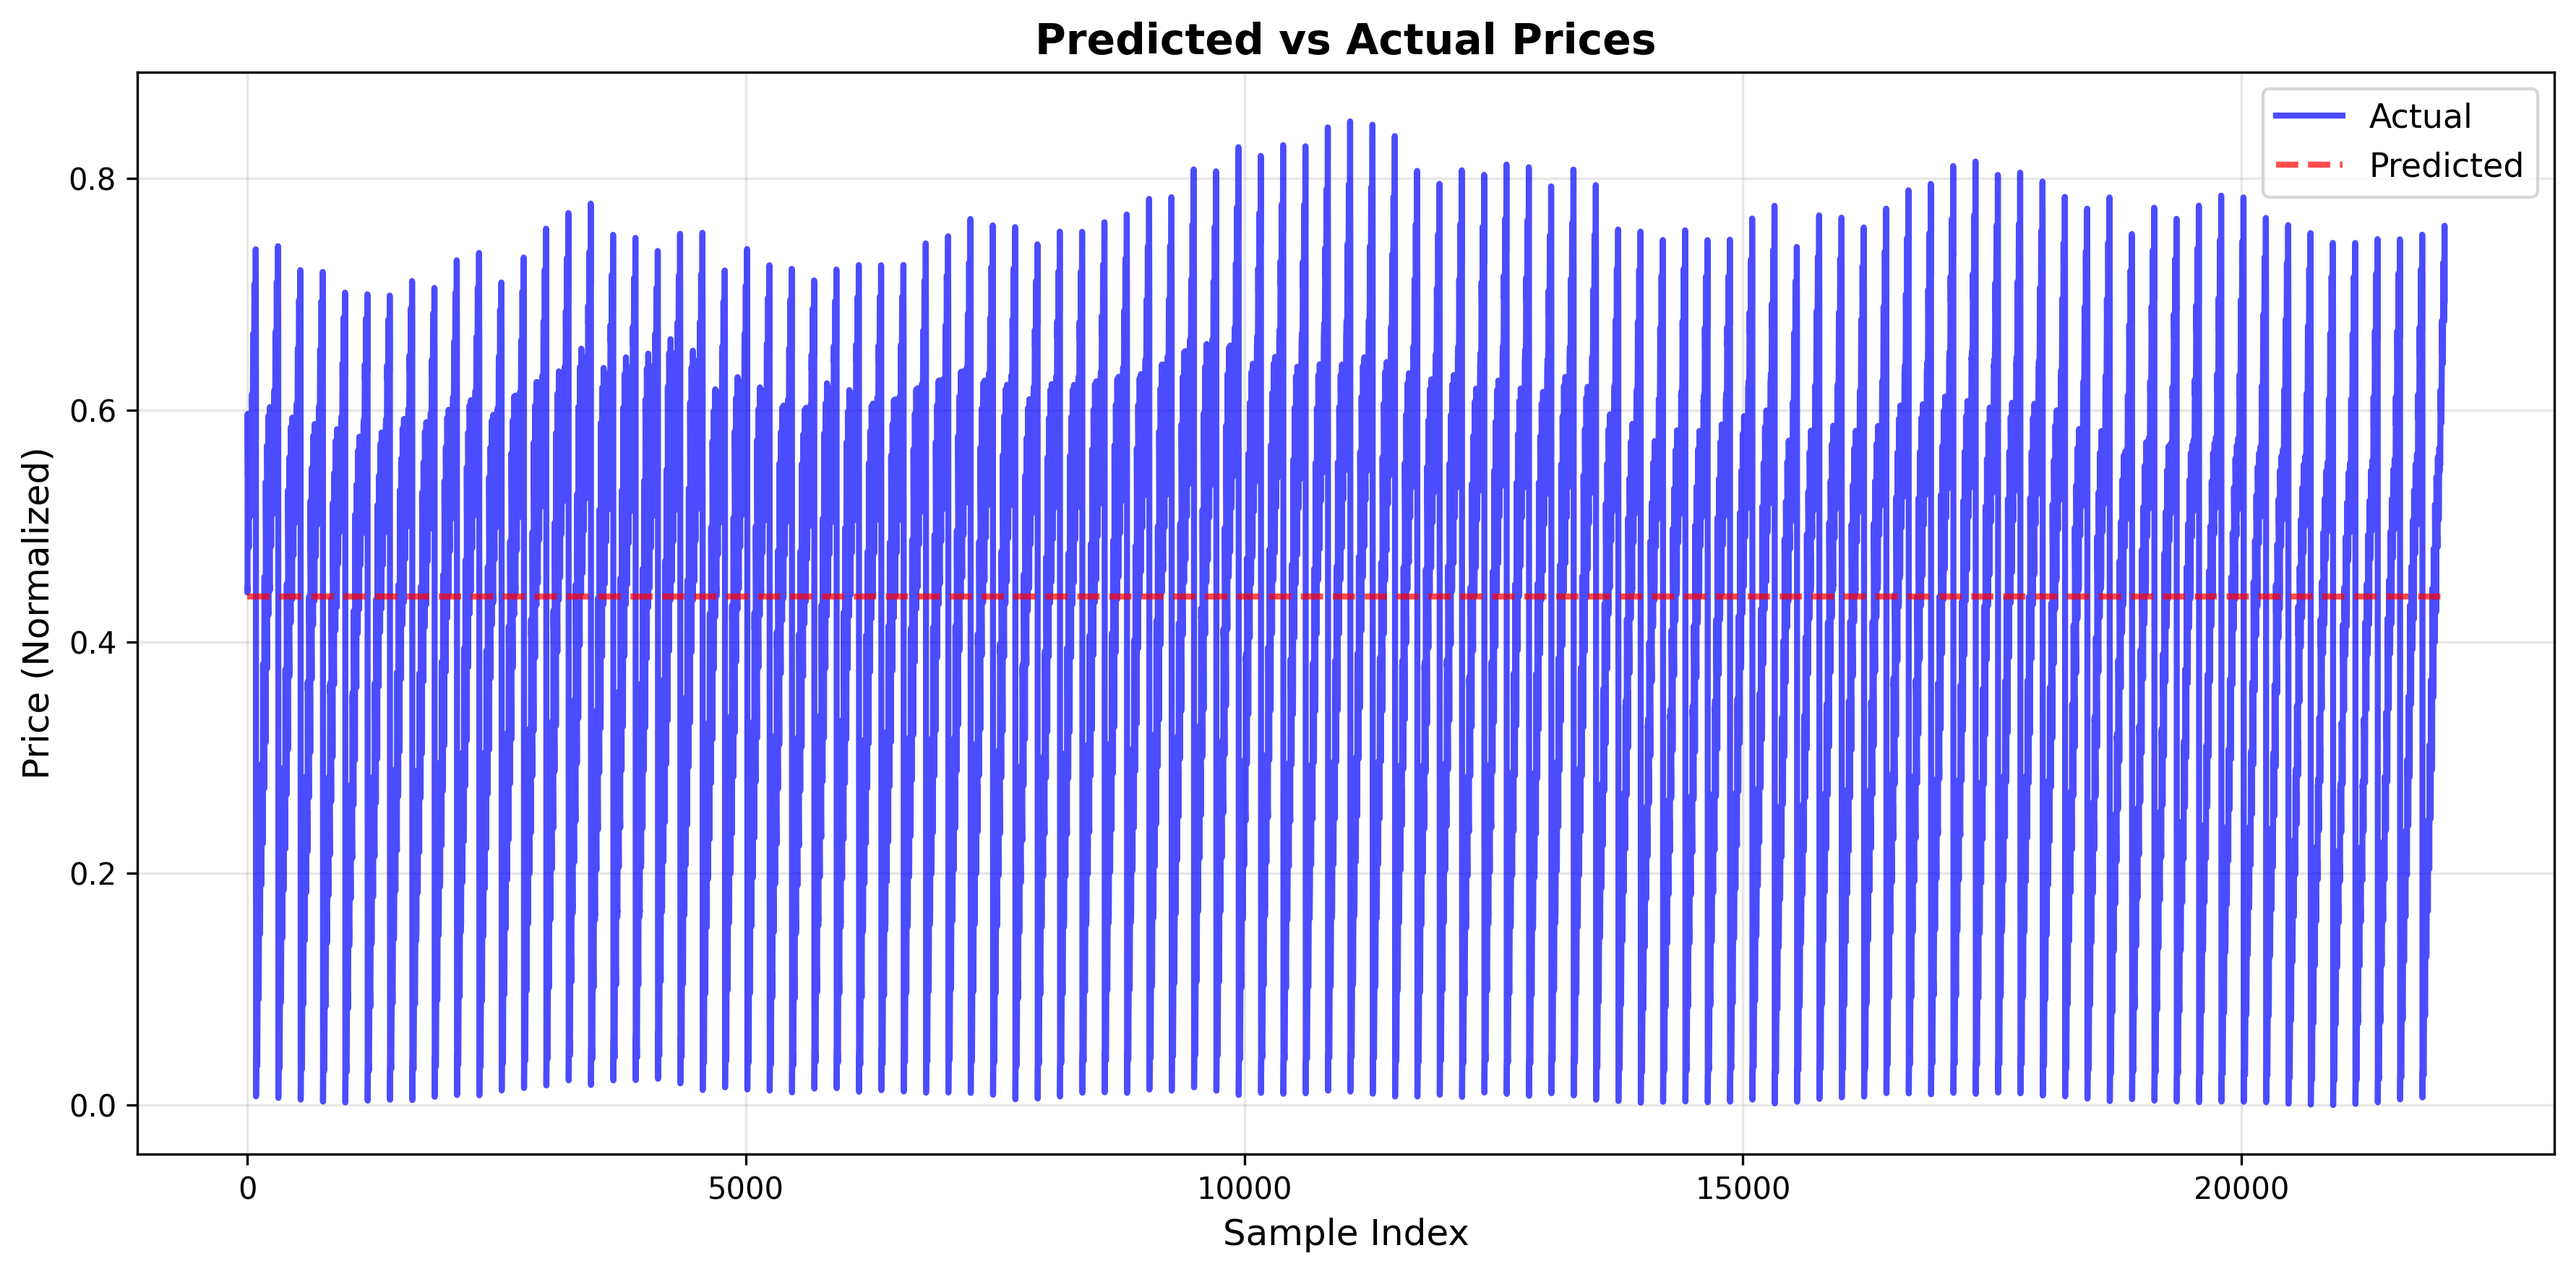
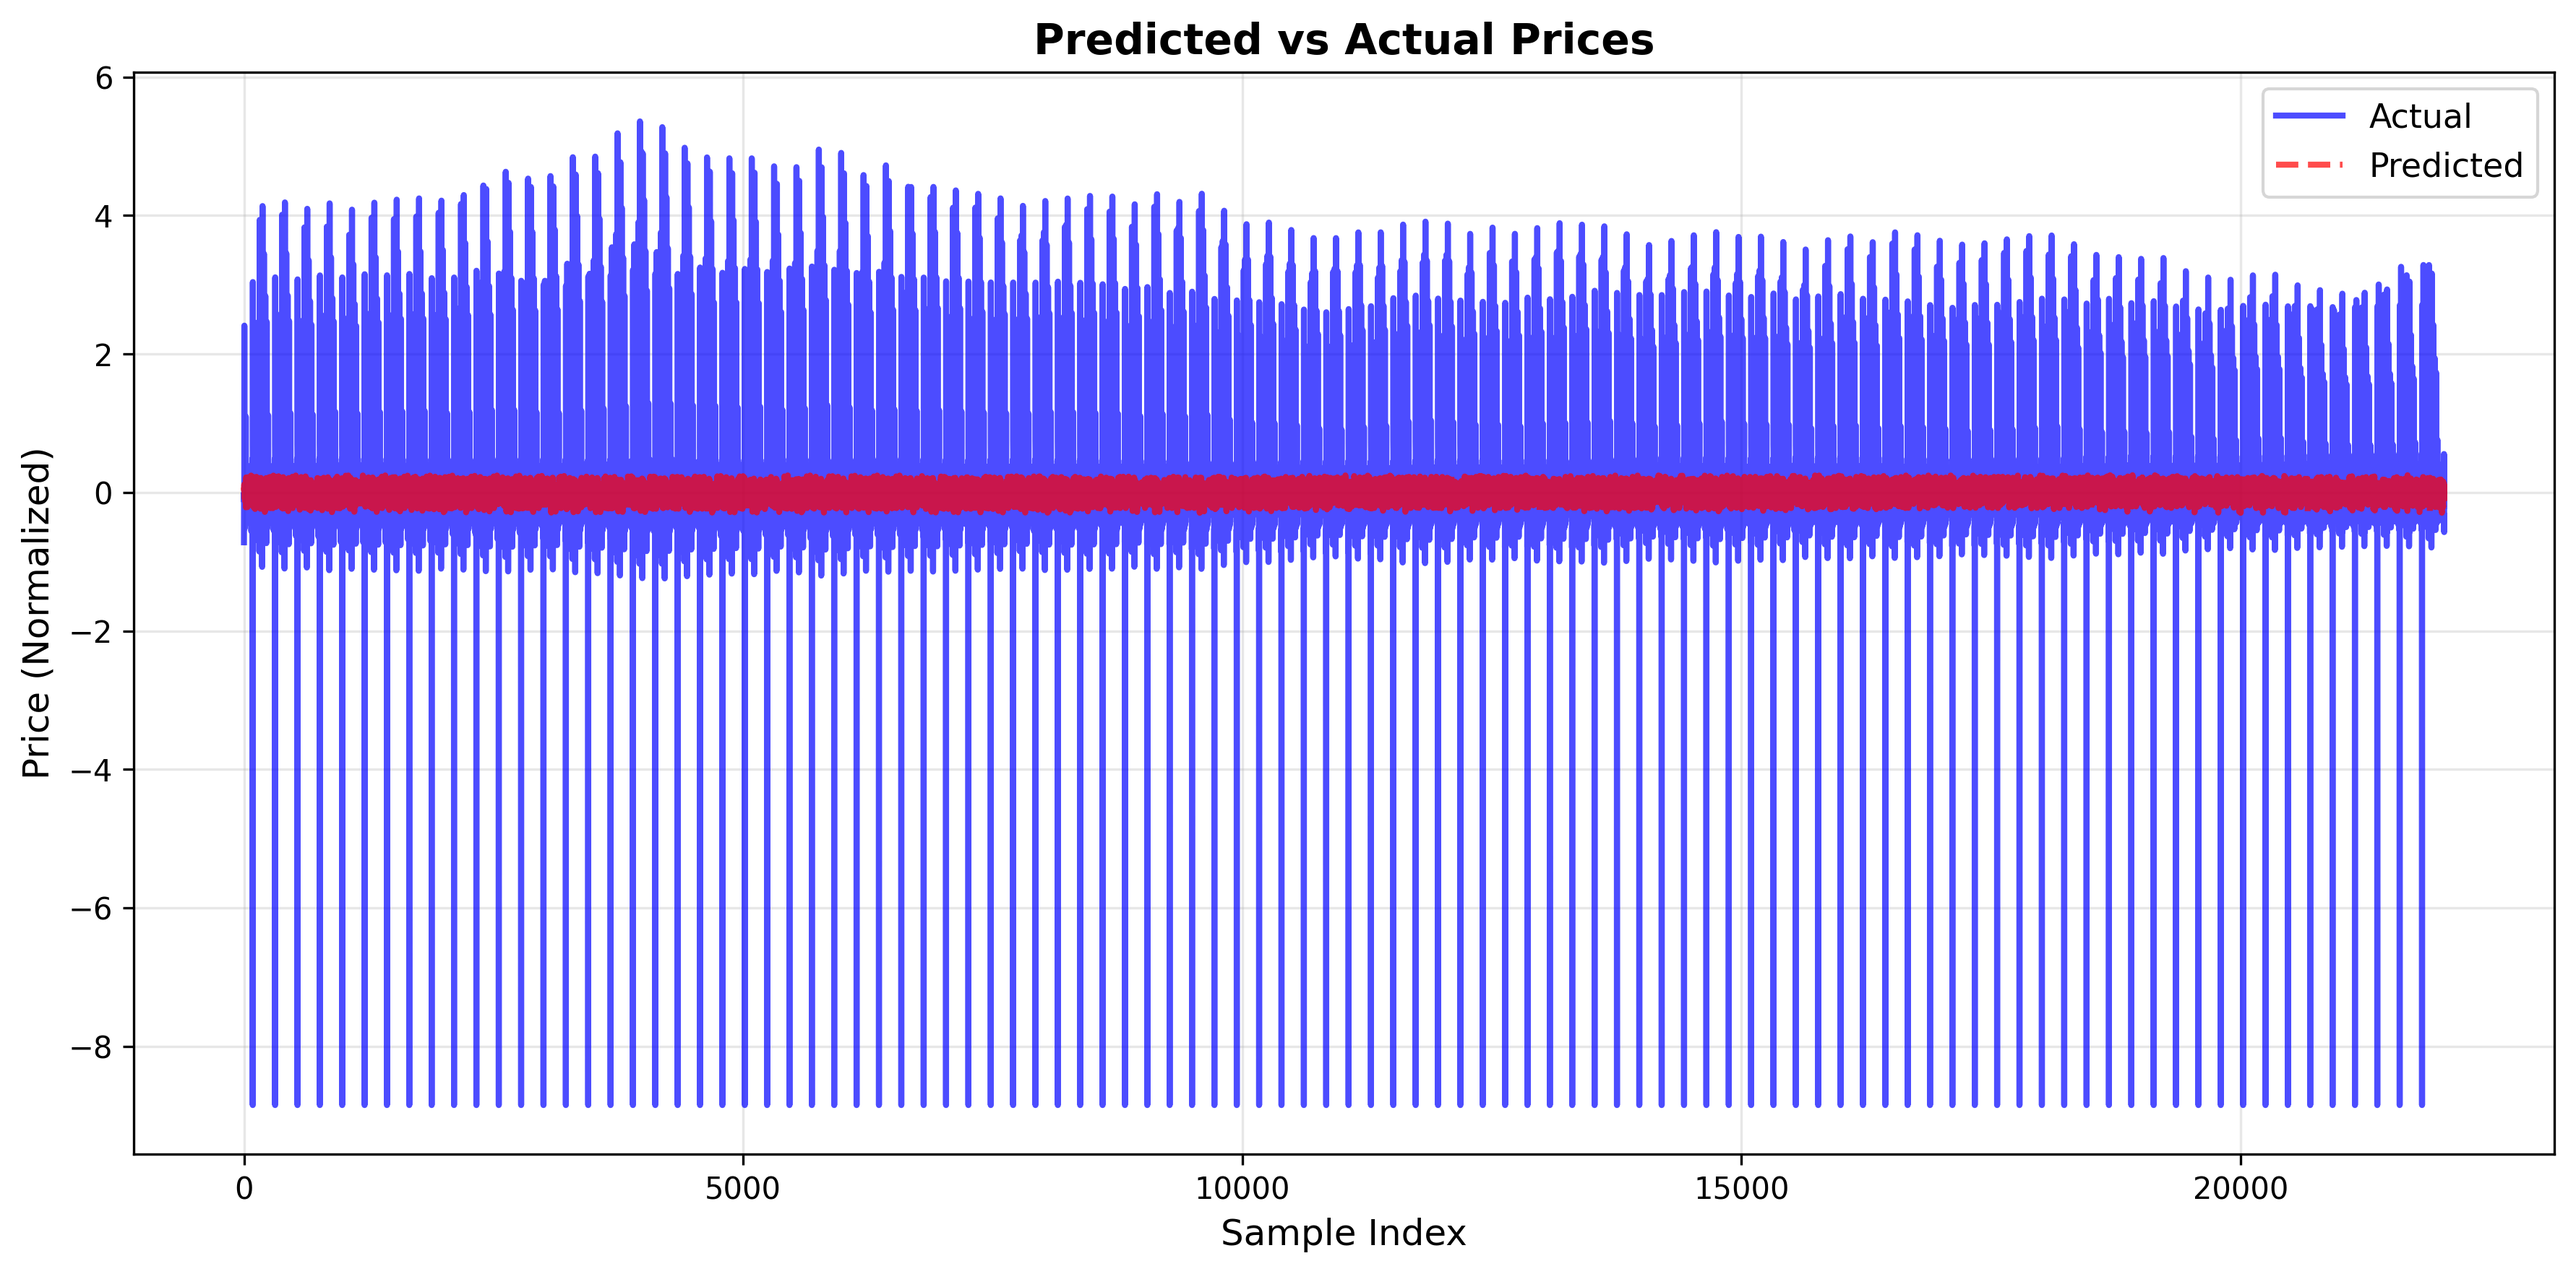
Fix critical QRC bug: Preserve temporal information by encoding full sequences instead of mean
- Remove np.mean() aggregation in get_reservoir_states() to preserve temporal dynamics
- Update encode_data() to handle sequence vectors (last n_qubits if longer, pad if shorter)
- Update defaults: use_log_returns=True, normalize_method=zscore, regressor=ridge, lookback=4
- Add warning if lookback > n_qubits with angle encoding
- Improve R² score from ~0.0 to 0.011-0.013

diff --git a/Track2/src/quantum_reservoir.py b/Track2/src/quantum_reservoir.py
@@ -144,13 +144,16 @@ class QuantumReservoir:
         circuit: Optional[QuantumCircuit] = None
     ) -> QuantumCircuit:
         """
-        Encode classical data into quantum circuit.
+        Encode classical data sequence into quantum circuit.
+        
+        This method encodes the full sequence of data points to preserve temporal
+        information. For angle encoding, elements are mapped 1-to-1 to qubits.
         
         Parameters
         ----------
         data : np.ndarray
-            Input data to encode. Shape should match encoding requirements:
-            - Angle encoding: 1D array of length n_qubits
+            Input data sequence to encode. Can be of any length:
+            - Angle encoding: 1D array (will be truncated/padded to n_qubits)
             - Amplitude encoding: 1D array of length 2^n_qubits
         circuit : QuantumCircuit, optional
             Circuit to encode into. If None, creates a new circuit.
@@ -158,7 +161,7 @@ class QuantumReservoir:
         Returns
         -------
         QuantumCircuit
-            Circuit with encoded data
+            Circuit with encoded data sequence
         """
         if circuit is None:
             circuit = QuantumCircuit(self.n_qubits)
@@ -169,17 +172,19 @@ class QuantumReservoir:
         data = np.asarray(data).flatten()
         
         if self.encoding_type == "angle":
-            # Angle encoding: map each data point to rotation angle
+            # Angle encoding: map sequence of data points 1-to-1 to rotation angles
+            # This preserves temporal information by encoding the full sequence
             if len(data) != self.n_qubits:
-                # If data length doesn't match, pad or truncate
+                # Handle length mismatches
                 if len(data) < self.n_qubits:
-                    # Pad with zeros
+                    # Pad with zeros (older history is zero-padded)
                     data = np.pad(data, (0, self.n_qubits - len(data)), 'constant')
                 else:
-                    # Truncate or average
-                    data = data[:self.n_qubits]
+                    # Take last n_qubits values (most recent history)
+                    # This ensures we capture the most recent temporal patterns
+                    data = data[-self.n_qubits:]
             
-            # Normalize data to [0, 2π] range
+            # Normalize data to [0, 2π] range for rotation angles
             if np.max(np.abs(data)) > 0:
                 data_normalized = (data - np.min(data)) / (
                     np.max(data) - np.min(data) + 1e-8
@@ -187,7 +192,8 @@ class QuantumReservoir:
             else:
                 data_normalized = data
             
-            # Apply rotation gates
+            # Apply rotation gates: map each sequence element to a qubit
+            # This creates a 1-to-1 mapping preserving temporal order
             for qubit in range(self.n_qubits):
                 circuit.ry(data_normalized[qubit], qubit)
         
@@ -261,14 +267,13 @@ class QuantumReservoir:
         reservoir_states = []
         
         for i in range(n_samples):
-            # Average over the lookback window for encoding
+            # Extract the full sequence from the lookback window
+            # This preserves temporal information instead of aggregating to a single scalar
             window_data = data[i]
             
-            # Use mean of window for encoding (can be modified)
-            encoding_data = np.mean(window_data) if len(window_data) > 1 else window_data[0]
-            
-            # Create encoding circuit
-            encoding_circuit = self.encode_data([encoding_data] * self.n_qubits)
+            # Pass the full sequence to encoding (preserves temporal dynamics)
+            # The encode_data method will handle length mismatches appropriately
+            encoding_circuit = self.encode_data(window_data)
             
             # Combine with reservoir circuit
             full_circuit = QuantumCircuit(self.n_qubits)

diff --git a/Track2/main.py b/Track2/main.py
@@ -63,14 +63,24 @@ Examples:
     parser.add_argument(
         '--use_log_returns',
         action='store_true',
-        help='Use log returns instead of raw prices'
+        help='Use log returns instead of raw prices (default: True, recommended for stationarity)'
     )
+    
+    parser.add_argument(
+        '--no_log_returns',
+        dest='use_log_returns',
+        action='store_false',
+        help='Disable log returns (use raw prices)'
+    )
+    
+    # Set default to True for use_log_returns
+    parser.set_defaults(use_log_returns=True)
     
     parser.add_argument(
         '--lookback',
         type=int,
-        default=10,
-        help='Lookback window size for time-series (default: 10)'
+        default=4,
+        help='Lookback window size for time-series (default: 4, aligned with n_qubits)'
     )
     
     parser.add_argument(
@@ -122,18 +132,18 @@ Examples:
     parser.add_argument(
         '--regressor',
         type=str,
-        default='linear',
+        default='ridge',
         choices=['linear', 'ridge', 'mlp'],
-        help='Type of classical regressor: linear, ridge, or mlp (default: linear)'
+        help='Type of classical regressor: linear, ridge, or mlp (default: ridge)'
     )
     
     # Normalization
     parser.add_argument(
         '--normalize_method',
         type=str,
-        default='minmax',
+        default='zscore',
         choices=['minmax', 'zscore'],
-        help='Normalization method (default: minmax)'
+        help='Normalization method (default: zscore, better for log returns)'
     )
     
     # Output parameters
@@ -433,6 +443,16 @@ def main():
     )
     
     print(f"Reservoir circuit depth: {quantum_reservoir.get_circuit_depth()}")
+    
+    # Warn if lookback > n_qubits with angle encoding (older history will be truncated)
+    if args.encoding == 'angle' and args.lookback > args.n_qubits:
+        warnings.warn(
+            f"Lookback window ({args.lookback}) > number of qubits ({args.n_qubits}). "
+            f"With angle encoding, only the last {args.n_qubits} values will be used. "
+            f"Older history will be truncated. Consider setting lookback={args.n_qubits} "
+            f"for 1-to-1 mapping without information loss.",
+            UserWarning
+        )
     
     # Visualize circuit if requested
     if args.visualize:

diff --git a/Track2/src/data_loader.py b/Track2/src/data_loader.py
@@ -739,8 +739,9 @@ class DataLoader:
         if use_log_returns:
             try:
                 prices = self.compute_log_returns(prices)
-                # Note: log returns has one less element, so we need to adjust
-                # For windowing, we'll use the log returns directly
+                # Note: log returns has length len(original_prices) - 1
+                # create_windows() handles this correctly by starting from lookback_window index
+                # This means we'll have one fewer window, which is expected and correct
             except ValueError as e:
                 warnings.warn(
                     f"Could not compute log returns: {e}. Using raw prices instead.",
